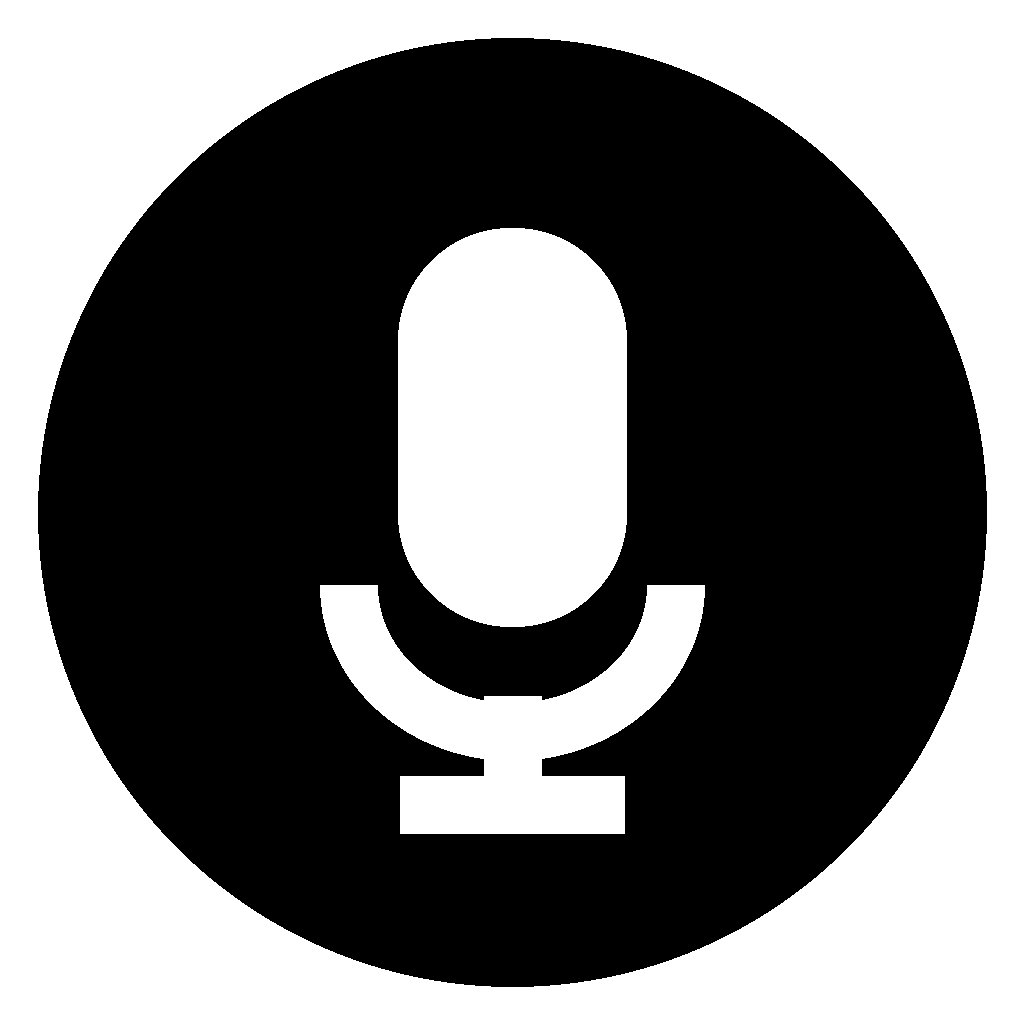
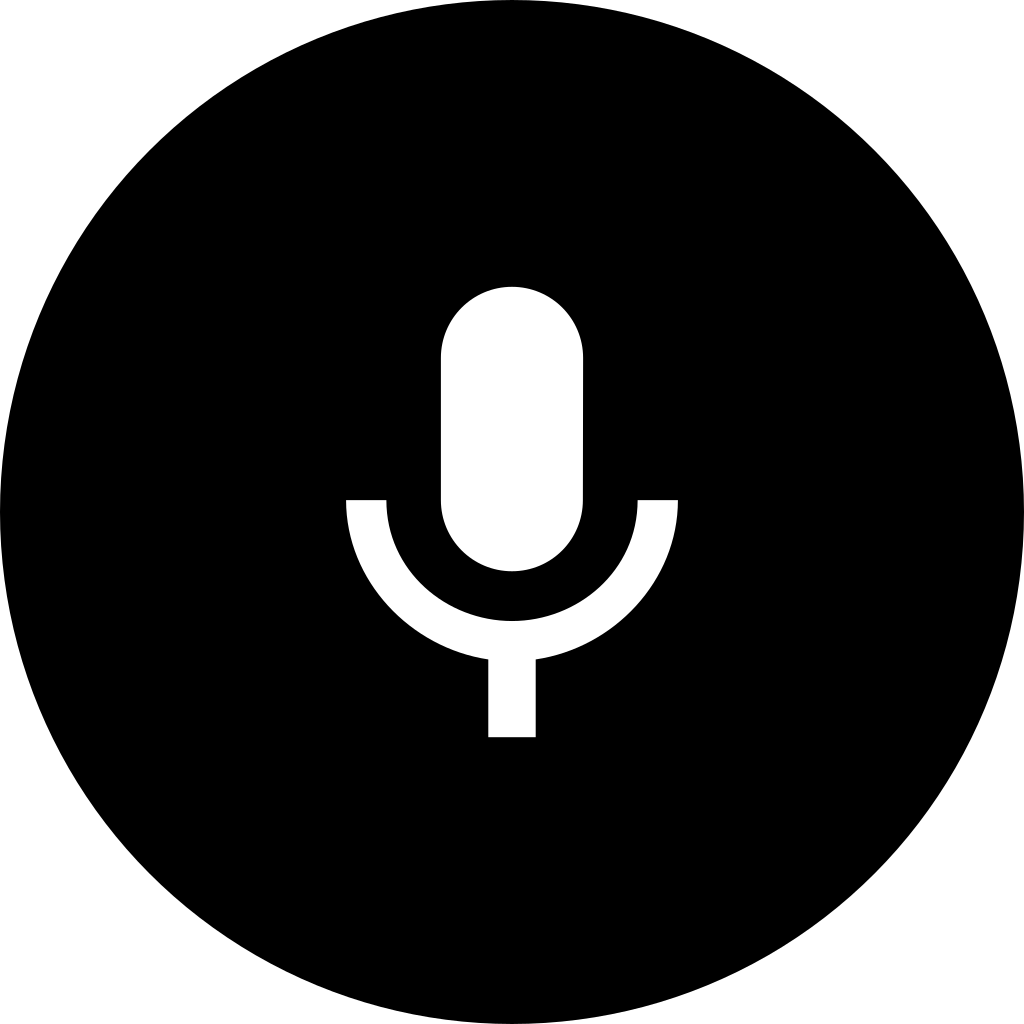
Use a consistent Material microphone across app branding

Changed region(s): [[0.0, 0.0, 1.0, 1.0], [0.3125, 0.2188, 0.6875, 0.8125]]

diff --git a/app/src/main/java/dev/notune/transcribe/LiveSubtitleService.java b/app/src/main/java/dev/notune/transcribe/LiveSubtitleService.java
@@ -436,7 +436,7 @@ public class LiveSubtitleService extends Service {
         return new Notification.Builder(this, CHANNEL_ID)
                 .setContentTitle("Live Subtitles Active")
                 .setContentText("Recording internal audio...")
-                .setSmallIcon(android.R.drawable.ic_btn_speak_now)
+                .setSmallIcon(R.drawable.ic_mic)
                 .addAction(new Notification.Action.Builder(null, "Stop", stopPendingIntent).build())
                 .build();
     }
